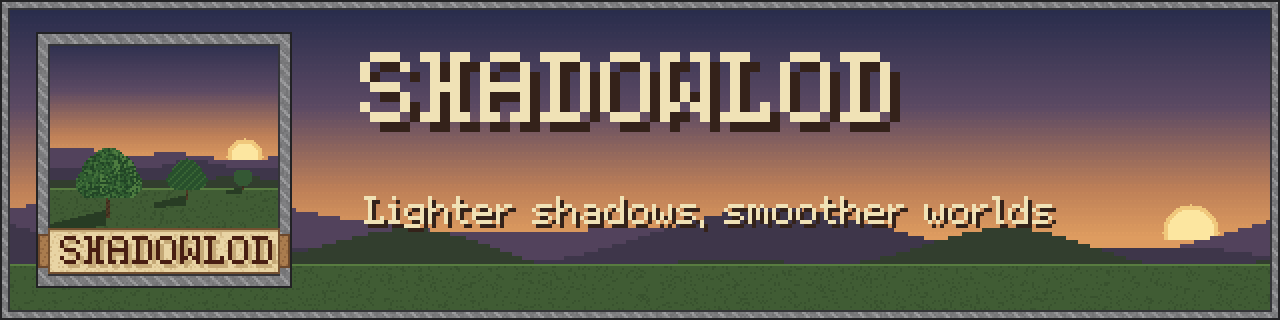
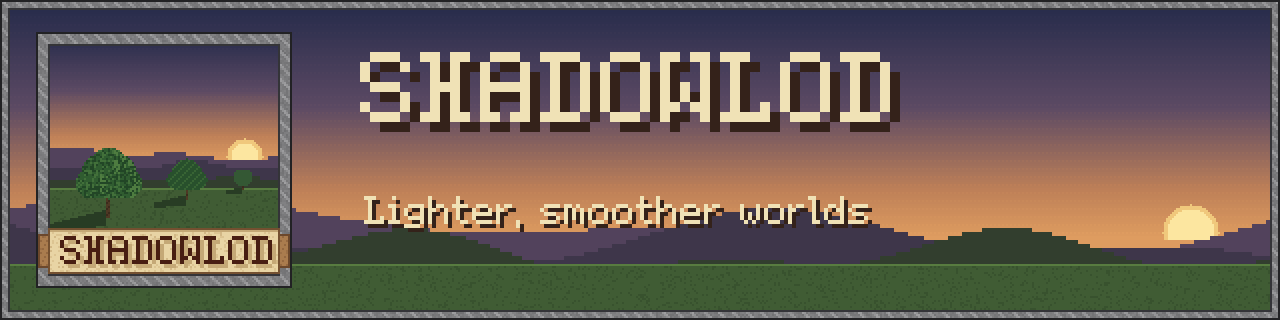
Update description

Changed region(s): [[0.4062, 0.5938, 0.8438, 0.7188]]

diff --git a/README.md b/README.md
@@ -1,9 +1,9 @@
 <p align="center">
-  <img src="images/header.png" alt="ShadowLOD : Lighter shadows, smoother worlds" width="100%">
+  <img src="images/header.png" alt="ShadowLOD : Lighter, smoother worlds" width="100%">
 </p>
 
 <p align="center">
-  <b>More FPS with shaders, without changing how your game looks.</b><br>
+  <b>More FPS, with or without shaders, without changing how your game looks.</b><br>
   <i>Crafted by Hardek</i>
 </p>
 
@@ -20,9 +20,9 @@
 
 <p align="center"><img src="images/about.png" alt="About"></p>
 
-ShadowLOD makes Minecraft lighter to render, mostly with shaders on.
-Shadows are only drawn where you can see them, the terrain shadow is reused instead of redrawn every frame,
-and distant mobs turn into flat pictures of their own model.
+ShadowLOD makes Minecraft lighter and smoother to render, with or without shaders.
+Distant mobs turn into flat pictures of their own model, far block entities and particles are skipped,
+chunk loading no longer causes stutter, and with shaders on, shadows are only drawn where you can see them.
 Your world looks the same, your graphics card just does less work.
 
 <p align="center"><img src="images/features.png" alt="Features"></p>
